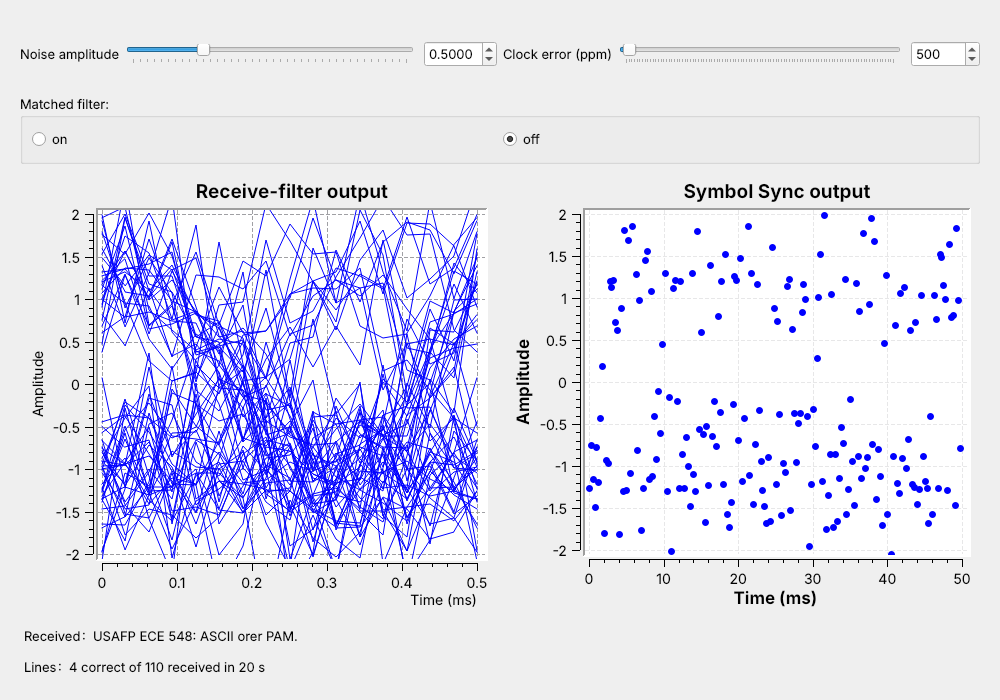
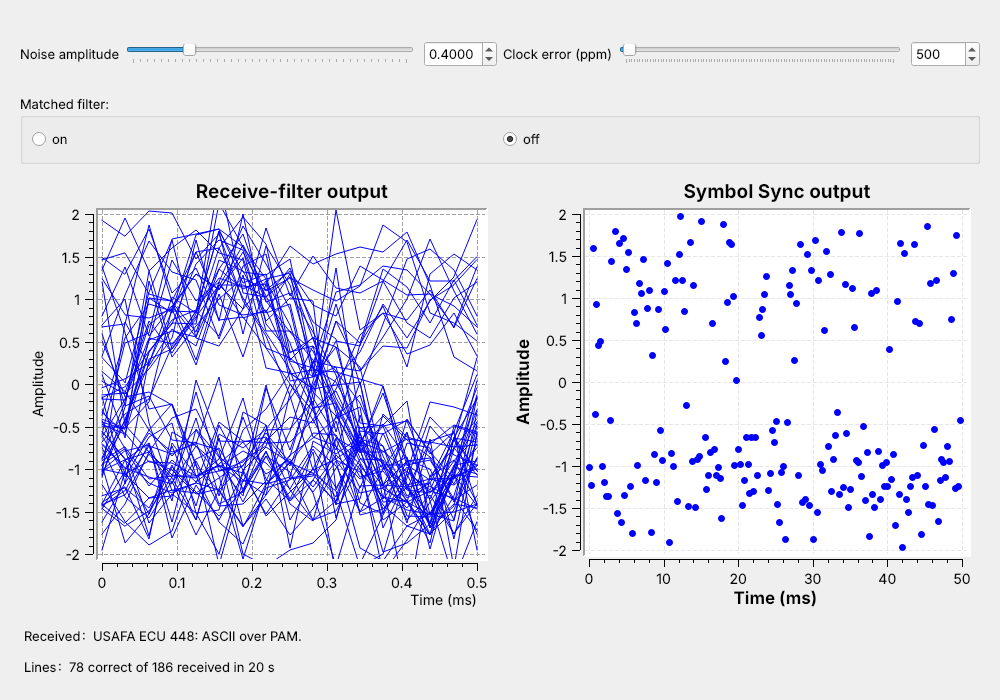
L9, L10: Integrator review fixes
Take the lab's KEY numbers off the public pages: drop the noise-sweep
table, make the noise and matched-filter text and summary qualitative, and
run the lesson's filter-off demo at 0.4 (new screenshot). Credit the slicer,
access-code search, and Repack Bits to the L8 link. Link the Mathys reading
and the 2025 PAM slides. Add antipodal versus orthogonal to L9. Renumber the
L10 parts to match the page. Move the practice filter-off question to 0.3,
and relabel the receive-filter eye.

Claude-Session: https://claude.ai/code/session_01Mdu2c4g4uDBhU69Dt7HMPa

diff --git a/latex/ECE448_Practice_L10.tex b/latex/ECE448_Practice_L10.tex
@@ -154,23 +154,23 @@ most 2 bits differ.
 %%%%%%%%%%%%%%%%%%%%%%%%%%%%%%%%%%%%%%%%%
 \question \textbf{Watching noise break the text.} The L10 link runs at a noise
 amplitude of 0.3 with every line intact. A cadet raises the noise slider a step at a
-time while watching the matched-filter eye, the Symbol Sync output, and the Received and
+time while watching the receive-filter eye, the Symbol Sync output, and the Received and
 Lines labels.
 \begin{parts}
 
 	\part Describe, in order, what changes on each display as the noise rises from 0.3
-	to about 1.4.
+	until no line arrives.
 		\begin{solution}[1.4in]
 		The eye fills in from above and below until it closes. The Symbol Sync output,
 		two tight bands at $\pm 1$, spreads into two clouds that reach toward zero. Then
 		single characters go wrong in the Received label, the correct count falls behind
 		the received count, and finally the received count falls too, because a wrong bit
-		in the access code or header loses the whole line. By about 1.4, no line arrives
+		in the access code or header loses the whole line. In the end no line arrives
 		intact.
 		\end{solution}
 
 	\begin{minipage}[t]{0.58\linewidth}
-		\part At 1.1, the line reads \texttt{USAFA ECE 448: ASCII over PCM.} instead of
+		\part With the noise raised, the line reads \texttt{USAFA ECE 448: ASCII over PCM.} instead of
 		\texttt{\ldots PAM.} `A' is 0x41 and `C' is 0x43. How many bits went wrong in
 		that character, and which one?
 		\begin{solution}[1.0in]
@@ -192,14 +192,15 @@ Lines labels.
 		it is more likely to catch at least one wrong bit.
 		\end{solution}
 
-	\part At a noise amplitude of 0.5, every line arrives. The cadet switches the
-	matched filter off, and only a few lines in a hundred arrive intact. Explain why,
-	and say which display shows it first.
-		\begin{solution}[1.1in]
-		The signal occupies only a few kilohertz of the 32 kHz the samples represent. The
-		matched filter blocks the noise outside the signal's band; without it, all that
-		noise reaches Symbol Sync and the slicer, and many samples cross zero. The eye
-		shows it first: its opening disappears the moment the filter is switched off.
+	\part The cadet sets the noise back to 0.3, the default, where every line arrives,
+	and switches the matched filter off. Describe what the eye and the Symbol Sync
+	output look like with the filter off, and explain why they change.
+		\begin{solution}[1.2in]
+		The eye's traces turn jagged and its opening narrows, and the two bands of the
+		Symbol Sync output widen toward zero; an occasional sample crosses it, so now and
+		then a line goes wrong or goes missing. The signal occupies only a few kilohertz of
+		the 32 kHz the samples represent. The matched filter blocks the noise outside the
+		signal's band; without it, all that noise reaches Symbol Sync and the slicer.
 		\end{solution}
 
 \end{parts}

diff --git a/latex/ECE448_Lab_L10_PAMLink.tex b/latex/ECE448_Lab_L10_PAMLink.tex
@@ -159,7 +159,7 @@ with the sliders at their defaults, a noise amplitude of 0.3 and a clock error o
 
 	\part Paste a screenshot of the running flowgraph's window.
 		\begin{solution}[1.6in]
-		The window shows an open matched-filter eye, Symbol Sync output in two tight
+		The window shows an open receive-filter eye, Symbol Sync output in two tight
 		bands at $\pm 1$, and the received line of text.
 		\end{solution}
 
@@ -299,11 +299,12 @@ moves.
 
 	\begin{minipage}[t]{0.58\linewidth}
 		\part Record the noise amplitude at which lines start to break, where the correct
-		count first falls behind the lines sent, and the setting at which no line arrives
-		intact in 20 s.
+		count first falls behind the received count on the Lines label, and the setting
+		at which no line arrives intact in 20 s.
 		\begin{solution}[1.0in]
-		Lines start to break near 0.7 (between 0.6 and 0.8, depending on the run): a
-		few lines in a hundred arrive with a wrong character or not at all. About half
+		Lines start to break near 0.7 (between 0.6 and 0.8, depending on the run): the
+		correct count first falls behind the received count, as a few lines in a hundred
+		arrive with a wrong character. About half
 		arrive intact near 1.0, and none arrive intact by about 1.4 (between 1.3 and
 		1.5).
 		\end{solution}

diff --git a/book/module04/L10-ascii-pam/index.md b/book/module04/L10-ascii-pam/index.md
@@ -49,7 +49,7 @@ Lesson 10 · Module 4: Digital Modulation · Dr. Neil Rogers
 
 The figure is today's flowgraph, `L10-pam-link.grc`, running. A line of text goes in at the transmitter, crosses a channel with noise and a clock error, and comes out of the receiver intact, about 11 times a second. The left plot is the eye after the receive filter, the matched filter, and the right plot is the output of Symbol Sync, the same two checks Lesson 9 used.
 
-Lesson 9 built everything between the symbols and the samples. This lesson adds the two ends, in the order of Mathys's "Motivating Undergraduate Communication Theory Using GNU Radio": text to bits (Parts 1 to 3), bits to a waveform (the transmitter), the waveform through noise (Part 4), and the matched filter that cleans it up (Part 5). At the transmitter, text becomes bytes, bytes become bits, and the bits go out in **packets**. At the receiver, a slicer turns each sample back into a bit, and the receiver searches the bits for the start of each packet before it turns them back into text.
+Lesson 9 built everything between the symbols and the samples. This lesson adds the two ends, in the order of the 2025 reading, Mathys's "Motivating Undergraduate Communication Theory Using GNU Radio", linked under Downloads: text to bits (Parts 1 and 2, where packets replace the reading's hand-set delay), bits to a waveform (Part 3), the receiver (Part 4), the waveform through noise (Part 5), and the matched filter that cleans it up (Part 6). At the transmitter, text becomes bytes, bytes become bits, and the bits go out in **packets**. At the receiver, a slicer turns each sample back into a bit, and the receiver searches the bits for the start of each packet before it turns them back into text.
 ::::
 
 ::::{frame} Part 1: Text to Bits
@@ -100,7 +100,7 @@ We send each line of text as a **packet**, the same format the L8 link used. A p
 The header and access code add 96 bits to our 248, so one packet is 344 bits and takes 86 ms at 4 kbaud. The link sends 11.6 packets a second, and 72% of the bits it sends are text. A longer line spreads the same 96 bits over more text, and a 200-byte payload raises that share to 94%.
 ::::
 
-::::{frame} Bits to a Waveform
+::::{frame} Part 3: Bits to a Waveform
 :::{present}
 <img src="../../viz/img/L10-grc-tx.png"
      alt="The L10 transmitter flowgraph in GNU Radio Companion: Vector Source, Stream to Tagged Stream, Protocol Formatter, and Tagged Stream Mux build each packet; Unpack K Bits and Chunks to Symbols turn it into levels; a Throttle and an Interpolating FIR Filter with RRC taps shape the pulses; a Repeat and a Delay hold the bits for comparison on a QT GUI Time Sink"
@@ -157,20 +157,20 @@ T &= \frac{344}{4000\text{ baud}} = 86 \text{ ms}.
 The share of text grows with the payload, but a longer packet also has more bits that can go wrong, and the line counts as correct only if every bit is right. A longer line therefore starts to break at a lower noise setting than a short one.
 ::::
 
-::::{frame} Part 3: The Receiver
+::::{frame} Part 4: The Receiver
 :::{present}
 <img src="../../viz/img/L10-grc-rx.png"
      alt="The channel and receiver of the L10 link flowgraph in GNU Radio Companion: Throttle, Interpolating FIR Filter, a Fractional Resampler for the clock error, and an Add with a Noise Source; then a Decimating FIR Filter as the matched filter, Symbol Sync, Binary Slicer, Correlate Access Code - Tag Stream, Repack Bits, and a Text Sink, with an eye sink and a time sink"
      style="max-width: 820px; width: 100%; display: block; margin: 0 auto;">
 :::
 :::{present}
-- The matched filter and Symbol Sync keep Lesson 9's settings.
-- A **Binary Slicer**, the access-code search, and Repack Bits are new.
+- The back end comes from the L8 link: slicer, access-code search, Repack Bits.
+- Only the PAM front end differs: L9's matched filter and Symbol Sync.
 :::
 
 The channel is Lesson 9's: a **Fractional Resampler** with ratio $1 + \text{ppm} \times 10^{-6}$ models the receiver's clock error, and a **Noise Source** adds Gaussian noise of a chosen amplitude. The receiver starts with Lesson 9's matched filter, `rx_taps` in a Decimating FIR Filter, and Lesson 9's **Symbol Sync**: Gardner detector, `sps` = 8, loop bandwidth 0.045, one sample out per symbol.
 
-Three blocks are new. The **Binary Slicer** outputs a 1 for a sample above zero and a 0 below, the decision threshold of Lesson 9's Part 1. **Correlate Access Code - Tag Stream** finds each packet and passes on its payload bits. **Repack Bits** collects 8 bits at a time, MSB first, back into bytes, and the **Text Sink**, an Embedded Python Block from Lesson 8, displays each line and counts the correct ones.
+The rest comes from the L8 link. The **Binary Slicer** outputs a 1 for a sample above zero and a 0 below, the decision threshold of Lesson 9's Part 1. **Correlate Access Code - Tag Stream** finds each packet and passes on its payload bits. **Repack Bits** collects 8 bits at a time, MSB first, back into bytes, and the **Text Sink**, an Embedded Python Block from Lesson 8, displays each line and counts the correct ones.
 ::::
 
 ::::{frame} Finding the Access Code
@@ -202,62 +202,44 @@ The explorer's SNR slider is in dB, so higher means less noise, the opposite dir
 :::
 ::::
 
-::::{frame} Part 4: Noise Without a Matched Filter
+::::{frame} Part 5: Noise Without a Matched Filter
 :::{present}
 <img src="../../viz/img/L10-link-mf-off.png"
-     alt="The L10 link at noise amplitude 0.5 with the matched filter switched off: the receive-filter eye is a tangle of jagged traces with no opening, the Symbol Sync output is scattered between minus 2 and plus 2 with many samples near zero, the Received label reads USAFP ECE 548: ASCII orer PAM., and the Lines label reads 4 correct of 110 received in 20 s"
+     alt="The L10 link at noise amplitude 0.4 with the matched filter switched off: the receive-filter eye is a tangle of jagged traces with almost no opening, the Symbol Sync output is scattered between minus 2 and plus 2 with several samples near zero, and the Received label reads USAFA ECU 448: ASCII over PAM., with one wrong character"
      style="max-width: 820px; width: 100%; display: block; margin: 0 auto;">
 :::
 :::{present}
-- Switch the matched filter off and set the noise to 0.5.
-- The eye has no opening and the symbols scatter.
-- 4 of 110 lines arrive intact.
+- Switch the matched filter off and set the noise to 0.4.
+- The eye has almost no opening and the symbols scatter.
+- Watch the Received label: characters go wrong.
 :::
 
-The flowgraph's **Matched filter** switch, set to off, replaces the receive RRC with a filter that passes every sample unchanged, so Symbol Sync and the slicer see the raw received signal, the way the first receiver in the reading sampled it. Set the noise to 0.5 and watch. The eye display is a tangle, the Symbol Sync output, which is the 2-PAM constellation drawn against time, scatters across zero, and the text is full of wrong characters: a sample on the wrong side of zero is a wrong bit, and 'A' becomes 'P' or 'v' becomes 'r'.
+The flowgraph's **Matched filter** switch, set to off, replaces the receive RRC with a filter that passes every sample unchanged, so Symbol Sync and the slicer see the raw received signal, the way the first receiver in the reading sampled it. Set the noise to 0.4 and watch. The eye display is a tangle, the Symbol Sync output, which is the 2-PAM constellation drawn against time, scatters toward zero, and characters go wrong: a sample on the wrong side of zero is a wrong bit, and in the screenshot 'E' became 'U'.
 
-The Lines label reads 4 intact out of 110 received in 20 s. The link sent about 230 in that time; the rest lost a bit in the access code or the header, so the receiver never saw them as lines at all.
+Watch the Lines label too. The correct count falls behind the received count, and the received count grows more slowly than the link sends, because a line that loses a bit in the access code or the header never reaches the receiver as a line at all.
 ::::
 
-::::{frame} Part 5: The Matched Filter
+::::{frame} Part 6: The Matched Filter
 :::{present}
 <img src="../../viz/img/L10-link-noisy.png"
-     alt="The L10 link at noise amplitude 1.0 with the matched filter on: the receive-filter eye is mostly closed, the Symbol Sync output spreads between about minus 1.8 and plus 1.9 with a few samples near zero, the Received label reads USAFA ECE 648: ASCII over ?AM., and the Lines label reads 94 correct of 198 received in 20 s"
+     alt="The L10 link at noise amplitude 1.0 with the matched filter on: the receive-filter eye is mostly closed, the Symbol Sync output spreads between about minus 1.8 and plus 1.9 with a few samples near zero, and the Received label reads USAFA ECE 648: ASCII over ?AM., with two wrong characters"
      style="max-width: 820px; width: 100%; display: block; margin: 0 auto;">
 :::
 :::{present}
-- Switch the matched filter on: at 0.5, every line arrives.
+- Switch the matched filter on: every line arrives again.
 - Now raise the noise until the text breaks again.
-- At 1.0, twice the noise, about half the lines survive.
+- The screenshot is well past that point.
 :::
 
-Switch the matched filter back on at 0.5, and the eye opens, the symbols pull back into two bands at $\pm 1$, and every line arrives. The signal sits in a few kilohertz of the 32 kHz the samples represent, and the filter, matched to the transmitted pulse, keeps that band and throws the rest of the noise away.
+Switch the matched filter back on at 0.4, and the eye opens, the symbols pull back into two bands at $\pm 1$, and every line arrives. The signal sits in a few kilohertz of the 32 kHz the samples represent, and the filter, matched to the transmitted pulse, keeps that band and throws the rest of the noise away.
 
-Now raise the noise from 0.5 and watch the same three displays. The eye fills in, the bands spread, and near 0.7 characters start to go wrong: in the screenshot, at 1.0, '4' became '6' and 'P' became a byte that does not print, and 94 lines of 198 received are intact. A wrong bit in the header or the access code loses the whole line, so by about 1.4 no line arrives intact. With the filter, the link survives about three times the noise it could take without one.
-::::
-
-::::{frame} Noise Sweep
-:class: read-only
-
-We ran the link's blocks headless, without the Throttle, sending 300 packets at each noise amplitude with a 500 ppm clock error, and counted the lines that arrived intact.
-
-| Noise amplitude | Matched filter off | Matched filter on | Eye with the filter on |
-| :-: | :-: | :-: | :-- |
-| 0.3 | 93% | all | wide open |
-| 0.5 | 1% | all | open |
-| 0.7 | none | 98% | open, edges fuzzy |
-| 0.9 | none | 71% | half closed |
-| 1.0 | none | 45% | mostly closed |
-| 1.2 | none | 6% | closed |
-| 1.4 | none | none | closed |
-
-With the filter on, the change from every line to none takes less than a doubling of the noise amplitude. The reason is in the packet: a line counts only if all 280 bits of its header and payload are right, so once single bits start to go wrong, whole lines go wrong quickly. On a real radio, this is why a link needs margin: a link that just barely works on a quiet day stops working when the signal fades a little.
+Now raise the noise and watch the same three displays. The eye fills in, the bands spread, and characters start to go wrong again: in the screenshot, at 1.0, '4' became '6' and 'P' became a byte that does not print. A line counts only if every bit of its header and payload is right, and a wrong bit in the header or the access code loses the whole line, so once single bits start to go wrong, whole lines go wrong quickly, and soon no line arrives intact. The L10 Lab finds those two settings on your own link. At the same slider setting, the filter turns a link that loses most lines into one that loses none.
 ::::
 
 ::::{frame} Clock Error
 :::{present}
 <img src="../../viz/img/L10-link-clock.png"
-     alt="The L10 link at noise amplitude 0.3 and a 10,000 ppm clock error: the receive-filter eye smears across the display because the eye sink assumes exactly 8 samples per symbol, but the Symbol Sync output stays in tight bands at plus and minus 1, and the Lines label reads 210 correct of 212 received in 21 s"
+     alt="The L10 link at noise amplitude 0.3 and a 10,000 ppm clock error: the receive-filter eye smears across the display because the eye sink assumes exactly 8 samples per symbol, but the Symbol Sync output stays in tight bands at plus and minus 1, and the Lines label shows nearly every line correct"
      style="max-width: 820px; width: 100%; display: block; margin: 0 auto;">
 :::
 :::{present}
@@ -265,7 +247,7 @@ With the filter on, the change from every line to none takes less than a doublin
 - Two crystals of 20 ppm each can differ by 40 ppm.
 :::
 
-The clock-error slider sets how far the receiver's sample clock is from the transmitter's. At 10,000 ppm, a 1% error, the eye sink smears across the display, because it assumes exactly 8 samples per symbol and each symbol now spans 1% fewer. Symbol Sync tracks the difference, and its output stays at $\pm 1$: 210 of 212 lines arrive intact.
+The clock-error slider sets how far the receiver's sample clock is from the transmitter's. At 10,000 ppm, a 1% error, the eye sink smears across the display, because it assumes exactly 8 samples per symbol and each symbol now spans 1% fewer. Symbol Sync tracks the difference, and its output stays at $\pm 1$ and nearly every line arrives intact.
 
 Measured over thousands of packets at a noise amplitude of 0.3, a link that starts cold loses fewer than 1 line in 100 up to 10,000 ppm and a few percent, up to about 10%, from 15,000 to 25,000 ppm; started at 30,000 ppm it often fails to lock, and at 40,000 ppm it never does. Raised a step at a time while the loop is locked, the same link follows the error to 40,000 ppm and beyond and loses only a few percent of its lines. Two crystals accurate to 20 ppm each can differ by 40 ppm, 250 times smaller than 10,000 ppm, so with Symbol Sync in the receiver, clock error does not limit this link, and noise sets the limit instead.
 ::::
@@ -280,7 +262,7 @@ Measured over thousands of packets at a noise amplitude of 0.3, a link that star
 | Wrong access code | no packets |
 :::
 
-Every setting at the transmitter has a partner at the receiver, and the link works only when each pair agrees. The table lists four ways it can fail. An inverted signal turns every 1 into a 0, so the access code never matches and nothing arrives; this happens on a real radio, where the carrier phase can flip the sign, and the L10 Lab handles it. Reading bytes LSB first finds every packet but reverses every byte, so 'U', 01010101, becomes 10101010, 0xAA. A wrong `sps` or access code stops the search entirely. Try the first two in the explorer above.
+Every setting at the transmitter has a partner at the receiver, and the link works only when each pair agrees. The table lists four ways it can fail. An inverted signal turns every 1 into a 0, so the access code never matches and nothing arrives; this happens on a real radio, where the carrier phase can flip the sign, and the L10 Lab handles it. Reading bytes LSB first finds every packet but reverses every byte, so 'U', 01010101, becomes 10101010, 0xAA. A wrong `sps` or access code stops the search entirely. Try the first two in the explorer above. The transmitter's levels must match too: send unipolar levels, `[0, 1]`, instead of $\pm 1$, and the 0 level sits on the slicer's threshold, so noise decides those bits at random and no packet is found.
 ::::
 
 ::::{frame} PAM Text on a Real Radio
@@ -310,11 +292,11 @@ Each line goes out as bits in a packet behind an access code. The receiver slice
 
 Open a `.grc` file from GRC's File menu, or run `gnuradio-companion L10-pam-link.grc` from the radioconda prompt. The link's Text Sink is an Embedded Python Block, saved inside the `.grc` file. The L10 Lab page has the PlutoSDR version of the link.
 
-This lesson follows the 2025 reading, Mathys's four acts, for its topics and these pages for the hands-on steps:
+This lesson follows the 2025 reading for its topics, <a class="doc-link" href="../../legacy/L14-ascii-pam.pdf" target="_blank" rel="noopener">Mathys (2016), Motivating Undergraduate Communication Theory Using GNU Radio</a>, and these pages for the hands-on steps:
 
-- <a class="doc-link" href="https://wiki.gnuradio.org/index.php/Packet_Communications" target="_blank" rel="noopener">GNU Radio wiki: Packet Communications</a>: Stream to Tagged Stream, Protocol Formatter, and Correlate Access Code - Tag Stream (Parts 1 to 3).
-- <a class="doc-link" href="https://wiki.gnuradio.org/index.php/Guided_Tutorial_PSK_Demodulation" target="_blank" rel="noopener">GNU Radio wiki: Guided Tutorial, PSK Demodulation</a>: the RRC filters and Symbol Sync the link reuses from Lesson 9 (Parts 3 to 5).
-- <a class="doc-link" href="https://pysdr.org/content/pulse_shaping.html" target="_blank" rel="noopener">PySDR: Pulse Shaping</a>: what the matched filter does to the noise (Part 5).
+- <a class="doc-link" href="https://wiki.gnuradio.org/index.php/Packet_Communications" target="_blank" rel="noopener">GNU Radio wiki: Packet Communications</a>: Stream to Tagged Stream, Protocol Formatter, and Correlate Access Code - Tag Stream (Parts 1, 2, and 4).
+- <a class="doc-link" href="https://wiki.gnuradio.org/index.php/Guided_Tutorial_PSK_Demodulation" target="_blank" rel="noopener">GNU Radio wiki: Guided Tutorial, PSK Demodulation</a>: the RRC filters and Symbol Sync the link reuses from Lesson 9 (Parts 3 to 6).
+- <a class="doc-link" href="https://pysdr.org/content/pulse_shaping.html" target="_blank" rel="noopener">PySDR: Pulse Shaping</a>: what the matched filter does to the noise (Part 6).
 ::::
 
 ::::{frame} Summary
@@ -327,8 +309,8 @@ This lesson follows the 2025 reading, Mathys's four acts, for its topics and the
 | Packet | access code, header, payload | 64 + 32 + $8N$ bits |
 | Our line | 31 bytes with the newline | 344 bits, 86 ms at 4 kbaud |
 | Access-code search | at most 2 of 64 bits wrong | about 32 match by chance |
-| Noise | closes the eye, spreads the symbol bands, breaks the text | lines start to break near 0.7, none by 1.4 |
-| Matched filter | the receive RRC | off at 0.5: 4 of 110 lines; on: all |
+| Noise | closes the eye, spreads the symbol bands, breaks the text | whole lines fail soon after single bits do |
+| Matched filter | the receive RRC | keeps the text alive at noise that breaks it without |
 | Clock error | Symbol Sync tracks it | locks from a cold start to about 25,000 ppm |
 | Polarity | an inverted link finds no packets | the Costas Loop can flip it |
 ::::

diff --git a/book/extras/slides/L10-ascii-pam.md b/book/extras/slides/L10-ascii-pam.md
@@ -24,7 +24,7 @@ Spring 2027 · Dr. Neil Rogers
 
 - Lesson 8: text in packets behind an access code
 - Lesson 9: the PAM link, from bits to one clean sample per symbol; decide by the sign
-- The reading: Mathys, four acts from text to matched filter
+- The reading: Mathys (2016), four acts from text to matched filter
 
 Today: text in at one end of the PAM link and out the other.
 
@@ -117,7 +117,7 @@ The time sink triggers on the packet_len tag. 31 in 16 bits is eleven zeros and 
 <img src="./img/10-ascii-pam/L10-grc-rx.png" alt="The channel and receiver of the L10 link in GRC" style="max-height:330px; display:block; margin:0 auto;">
 
 - Matched filter and Symbol Sync: Lesson 9's settings
-- New: Binary Slicer, Correlate Access Code, Repack Bits
+- From the L8 link: Binary Slicer, Correlate Access Code, Repack Bits
 
 Note:
 The channel is a Fractional Resampler for the clock error and a Noise Source. The Binary Slicer outputs a 1 for any sample above zero. Repack Bits packs 8 bits into a byte, MSB first. The Text Sink is the Embedded Python Block from Lesson 8.
@@ -153,29 +153,29 @@ Start at 12 dB, where the search finds the packet at bit 40. Press new noise a f
 
 ## Noise Without a Matched Filter
 
-<img src="./img/10-ascii-pam/L10-link-mf-off.png" alt="The L10 link at noise 0.5 with the matched filter off: no eye opening and 4 of 110 lines correct" style="max-height:380px; display:block; margin:0 auto;">
+<img src="./img/10-ascii-pam/L10-link-mf-off.png" alt="The L10 link at noise 0.4 with the matched filter off: almost no eye opening, scattered symbols, and a wrong character" style="max-height:380px; display:block; margin:0 auto;">
 
-Matched filter off, noise 0.5: 4 of 110 lines intact.
+Matched filter off, noise 0.4: watch the characters go wrong.
 
 Note:
-Click the Matched filter switch off, then set the noise to 0.5. The noise across the whole 32 kHz reaches the slicer, the eye has no opening, and the symbols scatter across zero. This is the third act of the Mathys reading.
+Click the Matched filter switch off, then set the noise to 0.4. The noise across the whole 32 kHz reaches the slicer, the eye has almost no opening, and the symbols scatter toward zero. Point at the Lines label: correct falls behind received. This is the third act of the Mathys reading (Mathys 2016, on the lesson page).
 
 ---
 
 ## The Matched Filter
 
-<img src="./img/10-ascii-pam/L10-link-noisy.png" alt="The L10 link at noise 1.0 with the matched filter on: a mostly closed eye, spread symbol bands, and 94 of 198 lines correct" style="max-height:380px; display:block; margin:0 auto;">
+<img src="./img/10-ascii-pam/L10-link-noisy.png" alt="The L10 link at noise 1.0 with the matched filter on: a mostly closed eye, spread symbol bands, and two wrong characters" style="max-height:380px; display:block; margin:0 auto;">
 
-On at 0.5: every line. Raised to 1.0: about half.
+Filter on: every line again. Raise the noise until it breaks.
 
 Note:
-Switch the filter back on at 0.5 and every line arrives. Then drag the noise up live. Lines start to break near 0.7, about half survive at 1.0, and none arrive by 1.4. A line needs all of its header and payload bits right, which is why the change from all to none is so quick. Point at the eye and the bands.
+Switch the filter back on at 0.4 and every line arrives. Then drag the noise up live and stop when characters go wrong; the lab finds the exact settings. A line needs all of its header and payload bits right, which is why the change from all to none is so quick. Point at the eye and the bands.
 
 ---
 
 ## Clock Error
 
-<img src="./img/10-ascii-pam/L10-link-clock.png" alt="The L10 link at a 10,000 ppm clock error: a smeared eye but tight Symbol Sync output and 210 of 212 lines correct" style="max-height:380px; display:block; margin:0 auto;">
+<img src="./img/10-ascii-pam/L10-link-clock.png" alt="The L10 link at a 10,000 ppm clock error: a smeared eye but tight Symbol Sync output and nearly every line correct" style="max-height:380px; display:block; margin:0 auto;">
 
 Symbol Sync locks cold to about 25,000 ppm; two 20 ppm crystals differ by up to 40 ppm.
 

diff --git a/book/module04/L09-pam-theory/index.md b/book/module04/L09-pam-theory/index.md
@@ -65,7 +65,7 @@ Part 1 covers what a PAM symbol is, what noise does to it, and how its levels lo
 - $M$ levels carry $\log_2 M$ bits, so $R_s = R_b/\log_2 M$.
 :::
 
-**Pulse amplitude modulation** (PAM) is the simplest digital signal: each symbol is a pulse, and its height carries the data. **Binary PAM**, or 2-PAM, sends a pulse of height $+A$ for a 1 and $-A$ for a 0, and the receiver decides by the sign of what it receives. The two levels are mirror images, so they sit as far apart as the transmitter's power allows. **M-ary PAM** uses more levels: 4-PAM uses $\pm 1$ and $\pm 3$ and carries two bits per symbol. In general, $M$ levels carry $\log_2 M$ bits, so the **symbol rate** $R_s$, in symbols per second or **baud**, is
+**Pulse amplitude modulation** (PAM) is the simplest digital signal: each symbol is a pulse, and its height carries the data. **Binary PAM**, or 2-PAM, sends a pulse of height $+A$ for a 1 and $-A$ for a 0, and the receiver decides by the sign of what it receives. The two levels are mirror images, so they sit as far apart as the transmitter's power allows. Compare FSK from Lesson 8: its two tones are orthogonal, at right angles on a constellation, so at the same power its two points sit closer together than PAM's $\pm A$, and the same noise reaches across between them sooner. **M-ary PAM** uses more levels: 4-PAM uses $\pm 1$ and $\pm 3$ and carries two bits per symbol. In general, $M$ levels carry $\log_2 M$ bits, so the **symbol rate** $R_s$, in symbols per second or **baud**, is
 
 $$R_s = \frac{R_b}{\log_2 M}$$
 
@@ -330,7 +330,7 @@ The RRC filter at the transmitter fixes the bandwidth at $(1+\alpha)R_s$. The sa
 
 Open a `.grc` file from GRC's File menu, or run `gnuradio-companion L09-pulse-shaping.grc` from the radioconda prompt.
 
-This lesson follows Neil's 2025 PAM slides for its topics and these pages for the hands-on steps, in this order:
+This lesson follows Dr. Rogers's 2025 PAM slides, <a class="doc-link" href="../../legacy/L13-pam-theory.pdf" target="_blank" rel="noopener">L13-pam-theory.pdf</a>, for its topics and these pages for the hands-on steps, in this order:
 
 - <a class="doc-link" href="https://pysdr.org/content/digital_modulation.html" target="_blank" rel="noopener">PySDR: Digital Modulation</a>: PAM levels, constellations, and Gray coding (Part 1).
 - <a class="doc-link" href="https://pysdr.org/content/pulse_shaping.html" target="_blank" rel="noopener">PySDR: Pulse Shaping</a>: rectangular and raised-cosine pulses, RRC, and the eye (Parts 2 and 3).

diff --git a/book/module04/L10-lab-pam-link/index.md b/book/module04/L10-lab-pam-link/index.md
@@ -82,7 +82,7 @@ These follow from Lesson 10. The packet size is exact: 64 bits of access code, 3
 - The access-code search finds the right offset by itself.
 :::
 
-The figure shows one run of `L10-pam-raw.grc`. At an offset of 0 the receiver groups the bits one to seven bits away from the true byte boundary, and almost nothing it prints is a character. At an offset of 3 the same bits read as the line of text. The right offset depends on the bit at which the receiver started listening, so it changes from run to run, and a person has to find it again each time. The receiver in the Mathys reading used this kind of hand-set delay.
+The figure shows one run of `L10-pam-raw.grc`. At an offset of 0 the receiver groups the bits one to seven bits away from the true byte boundary, and almost nothing it prints is a character. At an offset of 3 the same bits read as the line of text. The right offset depends on the bit at which the receiver started listening, so it changes from run to run, and a person has to find it again each time. The receiver in the 2025 reading, <a class="doc-link" href="../../legacy/L14-ascii-pam.pdf" target="_blank" rel="noopener">Mathys (2016), Motivating Undergraduate Communication Theory Using GNU Radio</a>, used this kind of hand-set delay.
 
 The access code removes that step. Correlate Access Code - Tag Stream compares every 64-bit window of the received bits with the code, so it finds the first bit of each packet wherever the receiver started, and Repack Bits starts each byte there. That is why `L10-pam-link.grc` shows text within about a second every time it starts.
 ::::

diff --git a/book/extras/slides/L09-pam-theory.md b/book/extras/slides/L09-pam-theory.md
@@ -64,7 +64,7 @@ Trace the signal left to right: symbols, transmit filter, channel, matched filte
 $$R_s = \frac{R_b}{\log_2 M}$$
 
 Note:
-Binary PAM sends plus A for a 1 and minus A for a 0, and the receiver decides by the sign. The same eight bits go out both ways: 4-PAM uses half as many symbols, each twice as long. In GNU Radio, a Chunks to Symbols block does the mapping from a table.
+Binary PAM sends plus A for a 1 and minus A for a 0, and the receiver decides by the sign. FSK's two tones are orthogonal, so at the same power its points sit closer together than PAM's mirror-image pair. The same eight bits go out both ways: 4-PAM uses half as many symbols, each twice as long. In GNU Radio, a Chunks to Symbols block does the mapping from a table.
 
 ---
 
@@ -86,7 +86,7 @@ Top: a little noise, no errors. Middle: more noise, a few red dots. Bottom: 4-PA
 Neighboring points differ in one bit. Now label the 8-PSK points.
 
 Note:
-PAM's points lie on the real axis; m-PSK's lie on a circle and come back in Lesson 15. Noise usually pushes a sample to a neighbor, so with Gray coding a wrong decision usually costs one bit. Give the class two minutes to Gray-code the blank 8-PSK; one answer going around is 000, 001, 011, 010, 110, 111, 101, 100. It is also in the practice set.
+PAM's points lie on the real axis; m-PSK's lie on a circle and come back in Lesson 15. Noise usually pushes a sample to a neighbor, so with Gray coding a wrong decision usually costs one bit. Give the class two minutes to Gray-code the blank 8-PSK; the answer is in the practice SOLUTIONS.
 
 ---
 

diff --git a/book/materials.md b/book/materials.md
@@ -40,7 +40,7 @@ notes and slides replace these on the lesson page.
 | AM Simulation | L6 | <a class="doc-link" href="legacy/L07-am-simulation.pdf" target="_blank" rel="noopener">slides</a> |
 | AM and FM Receivers | L7 | <a class="doc-link" href="legacy/L08-am-fm-receivers.pdf" target="_blank" rel="noopener">slides</a> |
 | PAM Theory | L9 | <a class="doc-link" href="legacy/L13-pam-theory.pdf" target="_blank" rel="noopener">slides</a> |
-| ASCII over PAM | L10 | <a class="doc-link" href="legacy/L14-ascii-pam.pdf" target="_blank" rel="noopener">slides</a> |
+| ASCII over PAM | L10 | <a class="doc-link" href="legacy/L14-ascii-pam.pdf" target="_blank" rel="noopener">Mathys (2016), Motivating Undergraduate Communication Theory Using GNU Radio</a> |
 | DTMF | L13 | <a class="doc-link" href="legacy/L22-dtmf.pdf" target="_blank" rel="noopener">slides</a> |
 | HD Radio | L14 | <a class="doc-link" href="legacy/L24-hd-radio.pdf" target="_blank" rel="noopener">slides</a> |
 | RF Reverse Engineering | L17 | <a class="doc-link" href="legacy/L31-rf-reverse-engineering.pdf" target="_blank" rel="noopener">slides</a> |
